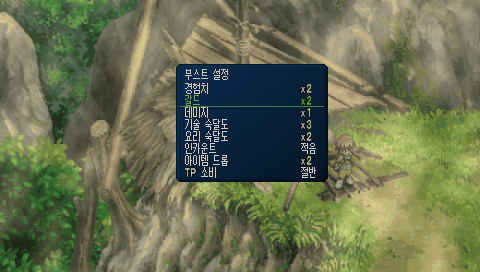
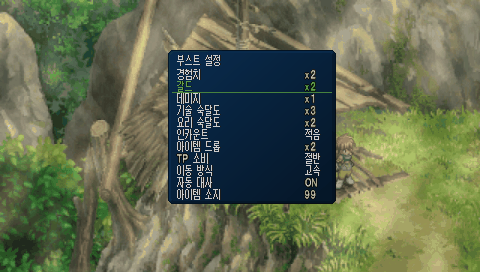
테일즈 오브 이터니아 PSP 편의·부스트 패치 v1.1
- 부스트 메뉴를 월드맵에서도 열기
- 이동 방식(보통/고속), 자동 대사, 아이템 소지(15/99) 항목 추가
- 전투 레벨 매니아 1회차 선택 가능

Claude-Session: https://claude.ai/code/session_01LKgPPUsA2d6ypSLsa3Tj42

Changed region(s): [[0.3438, 0.1765, 0.7188, 0.7647]]

diff --git a/eternia/index.html b/eternia/index.html
@@ -1,8 +1,8 @@
 <!doctype html>
 <html lang="ko" data-gc="snes-korean"><head><meta charset="utf-8">
 <meta name="viewport" content="width=device-width, initial-scale=1">
-<title>테일즈 오브 이터니아 (PSP) 편의·부스트 패치 v1.0 · SNES 한글화</title>
-<meta name="description" content="테일즈 오브 이터니아 PSP 한글판(V1.2)에 2026 리마스터판의 편의 기능(빠른 이동, 대사 빨리 넘기기)과 부스트 기능(경험치·갈드·데미지·숙련도 배율, 인카운트, 드롭률, TP 소비)을 넣는 패치 v1.0">
+<title>테일즈 오브 이터니아 (PSP) 편의·부스트 패치 v1.1 · SNES 한글화</title>
+<meta name="description" content="테일즈 오브 이터니아 PSP 한글판(V1.2)에 2026 리마스터판의 편의 기능(빠른 이동, 대사 빨리 넘기기)과 부스트 기능(경험치·갈드·데미지·숙련도 배율, 인카운트, 드롭률, TP 소비, 이동 방식, 자동 대사, 아이템 소지 수)과 마니아 난이도 1회차 개방을 넣는 패치 v1.1">
 <link rel="preconnect" href="https://fonts.googleapis.com"><link rel="preconnect" href="https://fonts.gstatic.com" crossorigin>
 <link href="https://fonts.googleapis.com/css2?family=Nanum+Myeongjo:wght@400;700;800&family=Noto+Sans+KR:wght@400;500;700&display=swap" rel="stylesheet">
 <link rel="stylesheet" href="../assets/style.css">
@@ -11,30 +11,30 @@
 <div class="bar"><div class="wrap">
  <a class="brand" href="../"><i>韓</i><span>SNES 한글화</span></a><span class="crumb">&nbsp;›&nbsp; <b>테일즈 오브 이터니아</b></span><span class="sp"></span>
  <nav class="menu" aria-label="작품 목록"><button type="button" aria-expanded="false" aria-haspopup="true">작품 목록 ▾</button>
-  <div class="list"><h6>한글화한 작품</h6><a href="../eternia/" aria-current=page>테일즈 오브 이터니아 (PSP·편의/부스트)<small>v1.0 · 2026-11-09</small></a><a href="../rs3/">로맨싱 사가 3 개조판 (치트)<small>v1.3 · 2026-11-03</small></a><a href="../seiken3/">성검전설3 (치트)<small>v1.1 · 2026-11-01</small></a><a href="../ogre/">전설의 오우거 배틀 (치트·공략)<small>v1.4.2 · 2026-11-03</small></a><a href="../chrono/">크로노 트리거+ (CT+)<small>v1.7 · 2026-10-26</small></a><a href="../tenchi-ex/">천지를 먹다 확장판 (삼국지군웅전)<small>v2.7.2 · 2026-10-27</small></a><a href="../tenchi/">천지를 먹다 (삼국지군웅전)<small>v1.3.2 · 2026-10-26</small></a><h6>참여</h6><a class="req" href="../request/">요청·제보<small>한글화 요청 · 버그 제보</small></a></div></nav>
+  <div class="list"><h6>한글화한 작품</h6><a href="../eternia/" aria-current=page>테일즈 오브 이터니아 (PSP·편의/부스트)<small>v1.1 · 2026-11-09</small></a><a href="../rs3/">로맨싱 사가 3 개조판 (치트)<small>v1.3 · 2026-11-03</small></a><a href="../seiken3/">성검전설3 (치트)<small>v1.1 · 2026-11-01</small></a><a href="../ogre/">전설의 오우거 배틀 (치트·공략)<small>v1.4.2 · 2026-11-03</small></a><a href="../chrono/">크로노 트리거+ (CT+)<small>v1.7 · 2026-10-26</small></a><a href="../tenchi-ex/">천지를 먹다 확장판 (삼국지군웅전)<small>v2.7.2 · 2026-10-27</small></a><a href="../tenchi/">천지를 먹다 (삼국지군웅전)<small>v1.3.2 · 2026-10-26</small></a><h6>참여</h6><a class="req" href="../request/">요청·제보<small>한글화 요청 · 버그 제보</small></a></div></nav>
  <span class="visits" hidden title="누적 방문자 (GoatCounter, 최대 4시간 늦게 반영)">누적 방문 <b>-</b></span>
  <a class="pwr" href="https://claude.ai" target="_blank" rel="noopener">Powered by Claude</a>
 </div></div>
 <header class="hero"><div class="wrap">
  <div>
-  <div class="kicker">PSP · v1.0 · 2026-11-09 배포</div>
+  <div class="kicker">PSP · v1.1 · 2026-11-09 배포</div>
   <h1>테일즈 오브 이터니아<small>テイルズ オブ エターニア — 편의·부스트 패치</small></h1>
-  <p class="lead">PSP판 「테일즈 오브 이터니아」 <b>한글판(V1.2)</b>에, 2026년에 나온 <b>리마스터판의 편의 기능과 부스트 기능</b>을 옮겨 넣는 패치입니다. 필드에서 <b>L+R</b>로 부스트 설정 메뉴를 열어 경험치·갈드·데미지·숙련도 배율, 인카운트, 아이템 드롭, TP 소비를 바꿀 수 있습니다. 빠른 이동과 대사 빨리 넘기기도 들어 있습니다.</p>
-  <div class="btns"><a class="btn main" href="patches/ToE_PSP_KR1.2_QoL_Boost_v1.0.xdelta" download>xdelta 패치 받기</a><a class="btn sub" href="#howto">적용 방법</a></div>
+  <p class="lead">PSP판 「테일즈 오브 이터니아」 <b>한글판(V1.2)</b>에, 2026년에 나온 <b>리마스터판의 편의 기능과 부스트 기능</b>을 옮겨 넣는 패치입니다. 필드와 월드맵에서 <b>L+R</b>로 부스트 설정 메뉴를 열어 경험치·갈드·데미지·숙련도 배율, 인카운트, 아이템 드롭, TP 소비, 이동 방식, 자동 대사, 아이템 소지 수를 바꿀 수 있습니다. 빠른 이동, 대사 빨리 넘기기, 1회차 마니아 난이도도 들어 있습니다.</p>
+  <div class="btns"><a class="btn main" href="patches/ToE_PSP_KR1.2_QoL_Boost_v1.1.xdelta" download>xdelta 패치 받기</a><a class="btn sub" href="#howto">적용 방법</a></div>
  </div>
  <figure><img src="img/menu.png" alt="부스트 설정 메뉴 화면" width="480" height="272"><div class="stamp">韓</div></figure>
 </div></header>
 <nav class="toc" aria-label="목차"><div class="wrap"><span>목차</span><a href="#about">게임 소개</a><a href="#qol">편의 기능</a><a href="#boost">부스트 메뉴</a><a href="#shots">화면</a><a href="#howto">적용 방법</a><a href="#known">알려진 문제</a><a href="#log">바뀐 점</a></div></nav>
 <main>
 <section id="about"><div class="wrap two"><div><h2>게임 소개</h2><p>정보 공유가 끊긴 두 세계 인페리아와 셀시아스를 무대로, 사냥꾼 청년 리드가 하늘에서 떨어진 소녀 메르디를 만나며 시작하는 「테일즈」 시리즈 세 번째 작품입니다. 2005년 PSP판이 나왔고, 2026년 10월에는 그 PSP판을 바탕으로 한 리마스터판이 나왔습니다. 이 패치는 리마스터판에서 새로 생긴 기능 가운데 PSP에서 구현할 수 있는 것을 한글판 위에 더합니다. 한글 번역 자체는 기존 한글패치 V1.2 제작진의 작업입니다.</p></div><div><dl class="info"><dt>원작</dt><dd>테일즈 오브 이터니아 (남코, PSP판 2005)</dd><dt>장르</dt><dd>RPG</dd><dt>바탕</dt><dd>일본판 ISO(ULJS-00015) + 한글패치 V1.2</dd><dt>이식 기능</dt><dd>리마스터판(2026) 편의·부스트 기능 일부</dd></dl></div></div></section>
-<section id="qol"><div class="wrap"><h2>편의 기능</h2><table class="dream wide"><tbody><tr><th>필드 빠른 이동</th><td>마을·던전에서 <b>R</b>을 누르고 있으면 이동 속도가 2배가 됩니다. 원래 있는 × 달리기와 같이 누르면 4배입니다. 벽 충돌과 맵 출구는 원래대로 동작합니다.</td></tr><tr><th>월드맵 빠른 이동</th><td>월드맵에서 <b>×</b>를 누르고 있으면 2배로 걷습니다. 월드맵의 L/R은 원래 카메라 회전이라 버튼을 다르게 했습니다.</td></tr><tr><th>대사 빨리 넘기기</th><td>이벤트 중에 <b>R</b>을 누르고 있으면 대사가 자동으로 빠르게 넘어갑니다. 예/아니오 같은 선택지에서는 멈춥니다. 대사만 넘기고 연출과 카메라 이동은 원래 속도입니다.</td></tr></tbody></table></div></section>
-<section id="boost"><div class="wrap"><h2>부스트 메뉴</h2><p>필드(마을·던전)에서 <b>L과 R을 같이 누르면</b> 「부스트 설정」 메뉴가 열립니다. ↑↓로 고르고 ←→로 값을 바꾸며, ×·○·Start·Select나 L+R을 다시 누르면 닫힙니다. 메뉴가 열려 있는 동안 게임은 멈춥니다.</p><table class="dream wide"><tbody><tr><th>경험치</th><td>x0~x5. 전투로 얻는 경험치에 곱합니다. x0은 레벨을 올리지 않는 도전용입니다.</td></tr><tr><th>갈드</th><td>x0~x5. 전투로 얻는 갈드에 곱합니다 (최대 99,999,999).</td></tr><tr><th>데미지</th><td>x1~x5. 리마스터판과 같이 아군과 적 양쪽의 데미지에 모두 적용됩니다 (최대 30,000).</td></tr><tr><th>기술 숙달도</th><td>x1~x5. 술·기를 한 번 쓸 때 올라가는 사용 횟수(숙련도)를 배율만큼 올립니다 (최대 9,999).</td></tr><tr><th>요리 숙달도</th><td>x1~x5. 요리할 때 오르는 요리 숙련도에 곱합니다 (최대 100).</td></tr><tr><th>인카운트</th><td>보통 / 적음 / 없음. 적음은 조우까지 걸리는 거리가 약 2배가 되고, 없음은 일반 몬스터와 마주치지 않습니다. 이벤트 전투는 그대로 일어납니다.</td></tr><tr><th>아이템 드롭</th><td>x1 / x2. 적이 아이템을 떨어뜨릴 확률을 2배로 합니다.</td></tr><tr><th>TP 소비</th><td>보통 / 절반. 술·기에 드는 TP를 절반(올림)으로 줄입니다.</td></tr></tbody></table><p class="note">처음 값은 모두 원래 게임과 같은 값(x1·보통)이라, 메뉴를 건드리지 않으면 원래 게임과 똑같이 동작합니다. 설정은 게임을 켤 때마다 처음 값으로 돌아갑니다(세이브에 저장되지 않음). 메뉴 글자는 게임 안 한글 글꼴을 그대로 써서 「숙련도」 대신 「숙달도」로 적었습니다.</p></div></section>
-<section id="shots"><div class="wrap"><h2>화면</h2><div class="shots"><figure><img src="img/menu.png" alt="부스트 설정 메뉴" width="480" height="272" loading="lazy"><figcaption>부스트 설정 메뉴 (L+R)</figcaption></figure><figure><img src="img/title.png" alt="타이틀 화면 왼쪽 위 버전 표시" width="480" height="272" loading="lazy"><figcaption>타이틀 화면 버전 표시</figcaption></figure><figure><img src="img/world.png" alt="월드맵" width="480" height="272" loading="lazy"><figcaption>월드맵 (× 빠른 이동)</figcaption></figure><figure><img src="img/battle.png" alt="전투 화면" width="480" height="272" loading="lazy"><figcaption>전투 화면</figcaption></figure></div></div></section>
-<section id="howto"><div class="wrap"><h2>적용 방법</h2><ol class="steps"><li><h4>한글판 ISO 준비</h4><p>일본판 ISO(ULJS-00015, 880,607,232바이트, CRC32 <code>4129997D</code>)에 한글패치 V1.2를 먼저 적용합니다. 결과 ISO는 899,168,256바이트, CRC32 <code>46FF65AF</code>여야 합니다.</p></li><li><h4>이 패치 적용</h4><p>한글판 ISO에 <code>ToE_PSP_KR1.2_QoL_Boost_v1.0.xdelta</code>를 xdelta로 적용합니다. PC에서는 Delta Patcher나 xdelta3(<code>xdelta3 -d -s 한글판.iso 패치.xdelta 결과.iso</code>)를 쓰면 됩니다. 결과 ISO CRC32는 <code>762B9705</code>입니다.</p></li><li><h4>실행</h4><p>PPSSPP에서 실행합니다. 게임 목록에 「Tales of Eternia KR1.2 QoL v1.0」으로 나오고, 타이틀 화면 왼쪽 위에 「QoL+Boost v1.0」이 보이면 제대로 적용된 것입니다. 한글판에서 쓰던 세이브를 그대로 이어서 쓸 수 있습니다.</p></li></ol>
- <div class="btns"><a class="btn main" href="patches/ToE_PSP_KR1.2_QoL_Boost_v1.0.xdelta" download>xdelta 받기 (v1.0)</a></div>
+<section id="qol"><div class="wrap"><h2>편의 기능</h2><table class="dream wide"><tbody><tr><th>필드 빠른 이동</th><td>마을·던전에서 <b>R</b>을 누르고 있으면 이동 속도가 2배가 됩니다. 원래 있는 × 달리기와 같이 누르면 4배입니다. 벽 충돌과 맵 출구는 원래대로 동작합니다.</td></tr><tr><th>월드맵 빠른 이동</th><td>월드맵에서 <b>×</b>를 누르고 있으면 2배로 걷습니다. 월드맵의 L/R은 원래 카메라 회전이라 버튼을 다르게 했습니다.</td></tr><tr><th>이동 방식 고정</th><td>부스트 메뉴의 「이동 방식」을 고속으로 두면 버튼을 누르지 않아도 2배로 움직이고, 이때는 R(월드맵은 ×)을 누르면 원래 속도로 걷습니다.</td></tr><tr><th>대사 빨리 넘기기</th><td>이벤트 중에 <b>R</b>을 누르고 있으면 대사가 자동으로 빠르게 넘어갑니다. 예/아니오 같은 선택지에서는 멈춥니다. 대사만 넘기고 연출과 카메라 이동은 원래 속도입니다.</td></tr><tr><th>자동 대사</th><td>부스트 메뉴의 「자동 대사」를 ON으로 두면, 대사가 다 나온 뒤 약 1.5초가 지나면 버튼을 누르지 않아도 다음으로 넘어갑니다. 선택지에서는 멈춥니다.</td></tr><tr><th>마니아 난이도</th><td>원래는 클리어 데이터가 있어야 나오던 전투 레벨 「매니아」를 처음부터 고를 수 있습니다(커스텀 → 전투 레벨).</td></tr></tbody></table></div></section>
+<section id="boost"><div class="wrap"><h2>부스트 메뉴</h2><p>필드(마을·던전)와 월드맵에서 <b>L과 R을 같이 누르면</b> 「부스트 설정」 메뉴가 열립니다. ↑↓로 고르고 ←→로 값을 바꾸며, ×·○·Start·Select나 L+R을 다시 누르면 닫힙니다. 메뉴가 열려 있는 동안 게임은 멈춥니다.</p><table class="dream wide"><tbody><tr><th>경험치</th><td>x0~x5. 전투로 얻는 경험치에 곱합니다. x0은 레벨을 올리지 않는 도전용입니다.</td></tr><tr><th>갈드</th><td>x0~x5. 전투로 얻는 갈드에 곱합니다 (최대 99,999,999).</td></tr><tr><th>데미지</th><td>x1~x5. 리마스터판과 같이 아군과 적 양쪽의 데미지에 모두 적용됩니다 (최대 30,000).</td></tr><tr><th>기술 숙달도</th><td>x1~x5. 술·기를 한 번 쓸 때 올라가는 사용 횟수(숙련도)를 배율만큼 올립니다 (최대 9,999).</td></tr><tr><th>요리 숙달도</th><td>x1~x5. 요리할 때 오르는 요리 숙련도에 곱합니다 (최대 100).</td></tr><tr><th>인카운트</th><td>보통 / 적음 / 없음. 적음은 조우까지 걸리는 거리가 약 2배가 되고, 없음은 일반 몬스터와 마주치지 않습니다. 이벤트 전투는 그대로 일어납니다.</td></tr><tr><th>아이템 드롭</th><td>x1 / x2. 적이 아이템을 떨어뜨릴 확률을 2배로 합니다.</td></tr><tr><th>TP 소비</th><td>보통 / 절반. 술·기에 드는 TP를 절반(올림)으로 줄입니다.</td></tr><tr><th>이동 방식</th><td>보통 / 고속. 고속이면 필드·월드맵을 기본 2배로 이동합니다(위 편의 기능 참고).</td></tr><tr><th>자동 대사</th><td>OFF / ON. 대사 자동 넘김을 켜고 끕니다.</td></tr><tr><th>아이템 소지</th><td>15 / 99. 같은 아이템을 가질 수 있는 최대 개수입니다. 상점 구매 한도도 함께 바뀝니다. 귀중품(1개 한정)은 그대로입니다.</td></tr></tbody></table><p class="note">처음 값은 모두 원래 게임과 같은 값(x1·보통·OFF·15)이라, 메뉴를 건드리지 않으면 원래 게임과 똑같이 동작합니다. 설정은 게임을 켤 때마다 처음 값으로 돌아갑니다(세이브에 저장되지 않음). 메뉴 글자는 게임 안 한글 글꼴을 그대로 써서 「숙련도」 대신 「숙달도」로 적었습니다.</p></div></section>
+<section id="shots"><div class="wrap"><h2>화면</h2><div class="shots"><figure><img src="img/menu.png" alt="부스트 설정 메뉴" width="480" height="272" loading="lazy"><figcaption>부스트 설정 메뉴 (L+R)</figcaption></figure><figure><img src="img/title.png" alt="타이틀 화면 왼쪽 위 버전 표시" width="480" height="272" loading="lazy"><figcaption>타이틀 화면 버전 표시</figcaption></figure><figure><img src="img/world_menu.png" alt="월드맵에서 연 부스트 메뉴" width="480" height="272" loading="lazy"><figcaption>월드맵에서 연 부스트 메뉴</figcaption></figure><figure><img src="img/mania.png" alt="커스텀 전투 레벨에 매니아 표시" width="480" height="272" loading="lazy"><figcaption>1회차 매니아 선택</figcaption></figure></div></div></section>
+<section id="howto"><div class="wrap"><h2>적용 방법</h2><ol class="steps"><li><h4>한글판 ISO 준비</h4><p>일본판 ISO(ULJS-00015, 880,607,232바이트, CRC32 <code>4129997D</code>)에 한글패치 V1.2를 먼저 적용합니다. 결과 ISO는 899,168,256바이트, CRC32 <code>46FF65AF</code>여야 합니다.</p></li><li><h4>이 패치 적용</h4><p>한글판 ISO에 <code>ToE_PSP_KR1.2_QoL_Boost_v1.1.xdelta</code>를 xdelta로 적용합니다. PC에서는 Delta Patcher나 xdelta3(<code>xdelta3 -d -s 한글판.iso 패치.xdelta 결과.iso</code>)를 쓰면 됩니다. 결과 ISO CRC32는 <code>05718FD2</code>입니다.</p></li><li><h4>실행</h4><p>PPSSPP에서 실행합니다. 게임 목록에 「Tales of Eternia KR1.2 QoL v1.1」로 나오고, 타이틀 화면 왼쪽 위에 「QoL+Boost v1.1」이 보이면 제대로 적용된 것입니다. 한글판에서 쓰던 세이브를 그대로 이어서 쓸 수 있습니다.</p></li></ol>
+ <div class="btns"><a class="btn main" href="patches/ToE_PSP_KR1.2_QoL_Boost_v1.1.xdelta" download>xdelta 받기 (v1.1)</a><a class="btn sub" href="patches/ToE_PSP_KR1.2_QoL_Boost_v1.0.xdelta" download>이전 버전 (v1.0)</a></div>
  <p class="note">이 xdelta는 한글패치 V1.2를 적용한 ISO용입니다. 일본판 원본 ISO에 바로 적용하면 맞지 않습니다.</p></div></section>
-<section id="known"><div class="wrap"><h2>알려진 문제</h2><ul><li>부스트 메뉴는 필드(마을·던전)에서만 열립니다. 월드맵과 전투 중에는 L+R을 눌러도 열리지 않으니 가까운 마을에서 바꿔 주세요.</li><li>전투 결과 화면에 보이는 경험치·갈드 숫자는 배율을 곱하기 전 값입니다. 실제로는 배율만큼 들어갑니다.</li><li>리마스터판 기능 가운데 목적지 아이콘, 자동 저장, 전투 재도전, 메뉴 퀵 회복, 2회차 항목별 인계, 그래픽·음성 전환은 넣지 않았습니다.</li><li>PPSSPP에서만 시험했습니다. 실기(커스텀 펌웨어 PSP)와 후반 지역·보스전은 끝까지 확인하지 못했습니다. 이상한 점이 있으면 제보해 주세요.</li></ul><p class="bugrep"><a href="../request/">버그 제보하기 →</a></p></div></section>
-<section id="log"><div class="wrap"><h2>바뀐 점</h2><div class="chg"><b>v1.0</b> <span class="date">2026-11-09</span><ul><li>부스트 설정 메뉴 추가 (필드에서 L+R): 경험치·갈드 x0~x5, 데미지·기술/요리 숙달도 x1~x5, 인카운트 보통/적음/없음, 아이템 드롭 x1/x2, TP 소비 보통/절반</li><li>필드 R 빠른 이동, 월드맵 × 빠른 이동, 이벤트 R 대사 빨리 넘기기</li><li>타이틀 화면과 게임 목록 이름에 버전 표시</li></ul></div></div></section>
+<section id="known"><div class="wrap"><h2>알려진 문제</h2><ul><li>부스트 메뉴는 필드와 월드맵에서 열립니다. 전투 중이나 캠프 메뉴 안에서는 열리지 않습니다.</li><li>아이템 소지를 99로 쓰다가 15로 되돌리면, 15개를 넘게 가진 아이템은 다음에 같은 아이템을 얻을 때 15개로 줄어듭니다.</li><li>아이템 소지 99의 상점 구매 한도는 코드만 바꾸고 실제 상점에서는 시험하지 못했습니다.</li><li>전투 결과 화면에 보이는 경험치·갈드 숫자는 배율을 곱하기 전 값입니다. 실제로는 배율만큼 들어갑니다.</li><li>리마스터판 기능 가운데 목적지 아이콘, 자동 저장, 전투 재도전, 메뉴 퀵 회복, 이벤트 통째 스킵, 2회차 항목별 인계, 네레이드의 미궁 조기 개방, 그래픽·음성 전환은 넣지 않았습니다.</li><li>PPSSPP에서만 시험했습니다. 실기(커스텀 펌웨어 PSP)와 후반 지역·보스전은 끝까지 확인하지 못했습니다. 이상한 점이 있으면 제보해 주세요.</li></ul><p class="bugrep"><a href="../request/">버그 제보하기 →</a></p></div></section>
+<section id="log"><div class="wrap"><h2>바뀐 점</h2><div class="chg"><b>v1.1</b> <span class="date">2026-11-09</span><ul><li>부스트 메뉴를 월드맵에서도 열 수 있게 함 (메뉴가 열려 있는 동안 이동 정지)</li><li>부스트 항목 추가: 이동 방식(보통/고속), 자동 대사(OFF/ON), 아이템 소지(15/99)</li><li>전투 레벨 「매니아」를 1회차부터 선택 가능</li></ul></div><div class="chg"><b>v1.0</b> <span class="date">2026-11-09</span><ul><li>부스트 설정 메뉴 추가 (필드에서 L+R): 경험치·갈드 x0~x5, 데미지·기술/요리 숙달도 x1~x5, 인카운트 보통/적음/없음, 아이템 드롭 x1/x2, TP 소비 보통/절반</li><li>필드 R 빠른 이동, 월드맵 × 빠른 이동, 이벤트 R 대사 빨리 넘기기</li><li>타이틀 화면과 게임 목록 이름에 버전 표시</li></ul></div></div></section>
 <section><div class="wrap"><p class="note">어셈블러: armips. 분석·검수: PPSSPP.</p></div></section>
 </main>
 <div class="support"><div class="wrap"><div class="sbox"><p><b>이 패치가 도움이 되셨나요?</b> 후원해 주시면 다음 작품 작업과 버그 수정을 이어 가는 데 쓰겠습니다.<br><small>이 페이지의 후원은 편의·부스트 패치 제작에 대한 것입니다. 한글 번역은 기존 한글패치 제작진의 작업입니다.</small></p><a class="btn sub" href="https://buymeacoffee.com/sneskorean" target="_blank" rel="noopener">☕ 후원하기</a></div></div></div>

diff --git a/index.html b/index.html
@@ -11,7 +11,7 @@
 <div class="bar"><div class="wrap">
  <a class="brand" href=""><i>韓</i><span>SNES 한글화</span></a><span class="sp"></span>
  <nav class="menu" aria-label="작품 목록"><button type="button" aria-expanded="false" aria-haspopup="true">작품 목록 ▾</button>
-  <div class="list"><h6>한글화한 작품</h6><a href="eternia/">테일즈 오브 이터니아 (PSP·편의/부스트)<small>v1.0 · 2026-11-09</small></a><a href="rs3/">로맨싱 사가 3 개조판 (치트)<small>v1.3 · 2026-11-03</small></a><a href="seiken3/">성검전설3 (치트)<small>v1.1 · 2026-11-01</small></a><a href="ogre/">전설의 오우거 배틀 (치트·공략)<small>v1.4.2 · 2026-11-03</small></a><a href="chrono/">크로노 트리거+ (CT+)<small>v1.7 · 2026-10-26</small></a><a href="tenchi-ex/">천지를 먹다 확장판 (삼국지군웅전)<small>v2.7.2 · 2026-10-27</small></a><a href="tenchi/">천지를 먹다 (삼국지군웅전)<small>v1.3.2 · 2026-10-26</small></a><h6>참여</h6><a class="req" href="request/">요청·제보<small>한글화 요청 · 버그 제보</small></a></div></nav>
+  <div class="list"><h6>한글화한 작품</h6><a href="eternia/">테일즈 오브 이터니아 (PSP·편의/부스트)<small>v1.1 · 2026-11-09</small></a><a href="rs3/">로맨싱 사가 3 개조판 (치트)<small>v1.3 · 2026-11-03</small></a><a href="seiken3/">성검전설3 (치트)<small>v1.1 · 2026-11-01</small></a><a href="ogre/">전설의 오우거 배틀 (치트·공략)<small>v1.4.2 · 2026-11-03</small></a><a href="chrono/">크로노 트리거+ (CT+)<small>v1.7 · 2026-10-26</small></a><a href="tenchi-ex/">천지를 먹다 확장판 (삼국지군웅전)<small>v2.7.2 · 2026-10-27</small></a><a href="tenchi/">천지를 먹다 (삼국지군웅전)<small>v1.3.2 · 2026-10-26</small></a><h6>참여</h6><a class="req" href="request/">요청·제보<small>한글화 요청 · 버그 제보</small></a></div></nav>
  <span class="visits" hidden title="누적 방문자 (GoatCounter, 최대 4시간 늦게 반영)">누적 방문 <b>-</b></span>
  <a class="pwr" href="https://claude.ai" target="_blank" rel="noopener">Powered by Claude</a>
 </div></div>
@@ -21,7 +21,7 @@
 </div></header>
 <main>
 <section><div class="wrap"><h2>한글화한 작품</h2><div class="games"><a class="game" href="eternia/"><img src="eternia/img/menu.png" alt="테일즈 오브 이터니아 부스트 설정 메뉴" width="480" height="272">
- <div><span class="v">v1.0</span><span class="d">2026-11-09 배포</span><h3>테일즈 오브 이터니아 <small>(PSP·편의/부스트)</small></h3><p>남코 2005 · RPG. PSP 한글판(V1.2)에 2026 리마스터판의 편의·부스트 기능 이식 — 경험치·갈드·데미지·숙련도 배율, 인카운트, 드롭률, TP 소비, 빠른 이동, 대사 빨리 넘기기</p></div></a><a class="game" href="rs3/"><img src="rs3/img/menu.png" alt="로맨싱 사가 3 개조판 치트 메뉴" width="256" height="224">
+ <div><span class="v">v1.1</span><span class="d">2026-11-09 배포</span><h3>테일즈 오브 이터니아 <small>(PSP·편의/부스트)</small></h3><p>남코 2005 · RPG. PSP 한글판(V1.2)에 2026 리마스터판의 편의·부스트 기능 이식 — 경험치·갈드·데미지·숙련도 배율, 인카운트, 드롭률, TP 소비, 이동 방식·자동 대사·아이템 소지 수, 1회차 매니아, 빠른 이동</p></div></a><a class="game" href="rs3/"><img src="rs3/img/menu.png" alt="로맨싱 사가 3 개조판 치트 메뉴" width="256" height="224">
  <div><span class="v">v1.3</span><span class="d">2026-11-03 배포</span><h3>로맨싱 사가 3 개조판 <small>(치트)</small></h3><p>스퀘어 1995 · RPG. 개조판 「ぼくのロマサガ3」 한국어판에 치트 메뉴 추가(게임 메뉴 「치트」 항목) — 오럼·성장·번뜩임 1~5배, HP·WP·JP·LP 유지, 이동속도 4배, 조우 회피</p></div></a><a class="game" href="seiken3/"><img src="seiken3/img/menu.png" alt="성검전설3 치트 메뉴" width="256" height="224">
  <div><span class="v">v1.1</span><span class="d">2026-11-01 배포</span><h3>성검전설3 <small>(치트)</small></h3><p>스퀘어 1995 · 액션 RPG. 2017년 한글판에 치트 메뉴 추가 — 루크·경험치 1~5배, HP·MP 유지, 이동속도 2배</p></div></a><a class="game" href="ogre/"><img src="ogre/img/guide.png" alt="전설의 오우거 배틀 공략 화면" width="256" height="224">
  <div><span class="v">v1.4.2</span><span class="d">2026-11-03 배포</span><h3>전설의 오우거 배틀 <small>(치트·공략)</small></h3><p>퀘스트 1993 · 시뮬레이션 RPG. 한마루 한글판에 치트 메뉴와 스테이지별 공략·지도 번호 표시 추가</p></div></a><a class="game" href="chrono/"><img src="chrono/img/battle_tech.png" alt="크로노 트리거+ (CT+) 타이틀 화면" width="256" height="224">

diff --git a/tenchi-ex/index.html b/tenchi-ex/index.html
@@ -11,7 +11,7 @@
 <div class="bar"><div class="wrap">
  <a class="brand" href="../"><i>韓</i><span>SNES 한글화</span></a><span class="crumb">&nbsp;›&nbsp; <b>천지를 먹다 확장판 (삼국지군웅전)</b></span><span class="sp"></span>
  <nav class="menu" aria-label="작품 목록"><button type="button" aria-expanded="false" aria-haspopup="true">작품 목록 ▾</button>
-  <div class="list"><h6>한글화한 작품</h6><a href="../eternia/">테일즈 오브 이터니아 (PSP·편의/부스트)<small>v1.0 · 2026-11-09</small></a><a href="../rs3/">로맨싱 사가 3 개조판 (치트)<small>v1.3 · 2026-11-03</small></a><a href="../seiken3/">성검전설3 (치트)<small>v1.1 · 2026-11-01</small></a><a href="../ogre/">전설의 오우거 배틀 (치트·공략)<small>v1.4.2 · 2026-11-03</small></a><a href="../chrono/">크로노 트리거+ (CT+)<small>v1.7 · 2026-10-26</small></a><a href="../tenchi-ex/" aria-current=page>천지를 먹다 확장판 (삼국지군웅전)<small>v2.7.2 · 2026-10-27</small></a><a href="../tenchi/">천지를 먹다 (삼국지군웅전)<small>v1.3.2 · 2026-10-26</small></a><h6>참여</h6><a class="req" href="../request/">요청·제보<small>한글화 요청 · 버그 제보</small></a></div></nav>
+  <div class="list"><h6>한글화한 작품</h6><a href="../eternia/">테일즈 오브 이터니아 (PSP·편의/부스트)<small>v1.1 · 2026-11-09</small></a><a href="../rs3/">로맨싱 사가 3 개조판 (치트)<small>v1.3 · 2026-11-03</small></a><a href="../seiken3/">성검전설3 (치트)<small>v1.1 · 2026-11-01</small></a><a href="../ogre/">전설의 오우거 배틀 (치트·공략)<small>v1.4.2 · 2026-11-03</small></a><a href="../chrono/">크로노 트리거+ (CT+)<small>v1.7 · 2026-10-26</small></a><a href="../tenchi-ex/" aria-current=page>천지를 먹다 확장판 (삼국지군웅전)<small>v2.7.2 · 2026-10-27</small></a><a href="../tenchi/">천지를 먹다 (삼국지군웅전)<small>v1.3.2 · 2026-10-26</small></a><h6>참여</h6><a class="req" href="../request/">요청·제보<small>한글화 요청 · 버그 제보</small></a></div></nav>
  <span class="visits" hidden title="누적 방문자 (GoatCounter, 최대 4시간 늦게 반영)">누적 방문 <b>-</b></span>
  <a class="pwr" href="https://claude.ai" target="_blank" rel="noopener">Powered by Claude</a>
 </div></div>

diff --git a/tenchi/index.html b/tenchi/index.html
@@ -11,7 +11,7 @@
 <div class="bar"><div class="wrap">
  <a class="brand" href="../"><i>韓</i><span>SNES 한글화</span></a><span class="crumb">&nbsp;›&nbsp; <b>천지를 먹다 (삼국지군웅전)</b></span><span class="sp"></span>
  <nav class="menu" aria-label="작품 목록"><button type="button" aria-expanded="false" aria-haspopup="true">작품 목록 ▾</button>
-  <div class="list"><h6>한글화한 작품</h6><a href="../eternia/">테일즈 오브 이터니아 (PSP·편의/부스트)<small>v1.0 · 2026-11-09</small></a><a href="../rs3/">로맨싱 사가 3 개조판 (치트)<small>v1.3 · 2026-11-03</small></a><a href="../seiken3/">성검전설3 (치트)<small>v1.1 · 2026-11-01</small></a><a href="../ogre/">전설의 오우거 배틀 (치트·공략)<small>v1.4.2 · 2026-11-03</small></a><a href="../chrono/">크로노 트리거+ (CT+)<small>v1.7 · 2026-10-26</small></a><a href="../tenchi-ex/">천지를 먹다 확장판 (삼국지군웅전)<small>v2.7.2 · 2026-10-27</small></a><a href="../tenchi/" aria-current=page>천지를 먹다 (삼국지군웅전)<small>v1.3.2 · 2026-10-26</small></a><h6>참여</h6><a class="req" href="../request/">요청·제보<small>한글화 요청 · 버그 제보</small></a></div></nav>
+  <div class="list"><h6>한글화한 작품</h6><a href="../eternia/">테일즈 오브 이터니아 (PSP·편의/부스트)<small>v1.1 · 2026-11-09</small></a><a href="../rs3/">로맨싱 사가 3 개조판 (치트)<small>v1.3 · 2026-11-03</small></a><a href="../seiken3/">성검전설3 (치트)<small>v1.1 · 2026-11-01</small></a><a href="../ogre/">전설의 오우거 배틀 (치트·공략)<small>v1.4.2 · 2026-11-03</small></a><a href="../chrono/">크로노 트리거+ (CT+)<small>v1.7 · 2026-10-26</small></a><a href="../tenchi-ex/">천지를 먹다 확장판 (삼국지군웅전)<small>v2.7.2 · 2026-10-27</small></a><a href="../tenchi/" aria-current=page>천지를 먹다 (삼국지군웅전)<small>v1.3.2 · 2026-10-26</small></a><h6>참여</h6><a class="req" href="../request/">요청·제보<small>한글화 요청 · 버그 제보</small></a></div></nav>
  <span class="visits" hidden title="누적 방문자 (GoatCounter, 최대 4시간 늦게 반영)">누적 방문 <b>-</b></span>
  <a class="pwr" href="https://claude.ai" target="_blank" rel="noopener">Powered by Claude</a>
 </div></div>

diff --git a/chrono/index.html b/chrono/index.html
@@ -11,7 +11,7 @@
 <div class="bar"><div class="wrap">
  <a class="brand" href="../"><i>韓</i><span>SNES 한글화</span></a><span class="crumb">&nbsp;›&nbsp; <b>크로노 트리거+ (CT+)</b></span><span class="sp"></span>
  <nav class="menu" aria-label="작품 목록"><button type="button" aria-expanded="false" aria-haspopup="true">작품 목록 ▾</button>
-  <div class="list"><h6>한글화한 작품</h6><a href="../eternia/">테일즈 오브 이터니아 (PSP·편의/부스트)<small>v1.0 · 2026-11-09</small></a><a href="../rs3/">로맨싱 사가 3 개조판 (치트)<small>v1.3 · 2026-11-03</small></a><a href="../seiken3/">성검전설3 (치트)<small>v1.1 · 2026-11-01</small></a><a href="../ogre/">전설의 오우거 배틀 (치트·공략)<small>v1.4.2 · 2026-11-03</small></a><a href="../chrono/" aria-current=page>크로노 트리거+ (CT+)<small>v1.7 · 2026-10-26</small></a><a href="../tenchi-ex/">천지를 먹다 확장판 (삼국지군웅전)<small>v2.7.2 · 2026-10-27</small></a><a href="../tenchi/">천지를 먹다 (삼국지군웅전)<small>v1.3.2 · 2026-10-26</small></a><h6>참여</h6><a class="req" href="../request/">요청·제보<small>한글화 요청 · 버그 제보</small></a></div></nav>
+  <div class="list"><h6>한글화한 작품</h6><a href="../eternia/">테일즈 오브 이터니아 (PSP·편의/부스트)<small>v1.1 · 2026-11-09</small></a><a href="../rs3/">로맨싱 사가 3 개조판 (치트)<small>v1.3 · 2026-11-03</small></a><a href="../seiken3/">성검전설3 (치트)<small>v1.1 · 2026-11-01</small></a><a href="../ogre/">전설의 오우거 배틀 (치트·공략)<small>v1.4.2 · 2026-11-03</small></a><a href="../chrono/" aria-current=page>크로노 트리거+ (CT+)<small>v1.7 · 2026-10-26</small></a><a href="../tenchi-ex/">천지를 먹다 확장판 (삼국지군웅전)<small>v2.7.2 · 2026-10-27</small></a><a href="../tenchi/">천지를 먹다 (삼국지군웅전)<small>v1.3.2 · 2026-10-26</small></a><h6>참여</h6><a class="req" href="../request/">요청·제보<small>한글화 요청 · 버그 제보</small></a></div></nav>
  <span class="visits" hidden title="누적 방문자 (GoatCounter, 최대 4시간 늦게 반영)">누적 방문 <b>-</b></span>
  <a class="pwr" href="https://claude.ai" target="_blank" rel="noopener">Powered by Claude</a>
 </div></div>

diff --git a/ogre/index.html b/ogre/index.html
@@ -11,7 +11,7 @@
 <div class="bar"><div class="wrap">
  <a class="brand" href="../"><i>韓</i><span>SNES 한글화</span></a><span class="crumb">&nbsp;›&nbsp; <b>전설의 오우거 배틀</b></span><span class="sp"></span>
  <nav class="menu" aria-label="작품 목록"><button type="button" aria-expanded="false" aria-haspopup="true">작품 목록 ▾</button>
-  <div class="list"><h6>한글화한 작품</h6><a href="../eternia/">테일즈 오브 이터니아 (PSP·편의/부스트)<small>v1.0 · 2026-11-09</small></a><a href="../rs3/">로맨싱 사가 3 개조판 (치트)<small>v1.3 · 2026-11-03</small></a><a href="../seiken3/">성검전설3 (치트)<small>v1.1 · 2026-11-01</small></a><a href="../ogre/" aria-current=page>전설의 오우거 배틀 (치트·공략)<small>v1.4.2 · 2026-11-03</small></a><a href="../chrono/">크로노 트리거+ (CT+)<small>v1.7 · 2026-10-26</small></a><a href="../tenchi-ex/">천지를 먹다 확장판 (삼국지군웅전)<small>v2.7.2 · 2026-10-27</small></a><a href="../tenchi/">천지를 먹다 (삼국지군웅전)<small>v1.3.2 · 2026-10-26</small></a><h6>참여</h6><a class="req" href="../request/">요청·제보<small>한글화 요청 · 버그 제보</small></a></div></nav>
+  <div class="list"><h6>한글화한 작품</h6><a href="../eternia/">테일즈 오브 이터니아 (PSP·편의/부스트)<small>v1.1 · 2026-11-09</small></a><a href="../rs3/">로맨싱 사가 3 개조판 (치트)<small>v1.3 · 2026-11-03</small></a><a href="../seiken3/">성검전설3 (치트)<small>v1.1 · 2026-11-01</small></a><a href="../ogre/" aria-current=page>전설의 오우거 배틀 (치트·공략)<small>v1.4.2 · 2026-11-03</small></a><a href="../chrono/">크로노 트리거+ (CT+)<small>v1.7 · 2026-10-26</small></a><a href="../tenchi-ex/">천지를 먹다 확장판 (삼국지군웅전)<small>v2.7.2 · 2026-10-27</small></a><a href="../tenchi/">천지를 먹다 (삼국지군웅전)<small>v1.3.2 · 2026-10-26</small></a><h6>참여</h6><a class="req" href="../request/">요청·제보<small>한글화 요청 · 버그 제보</small></a></div></nav>
  <span class="visits" hidden title="누적 방문자 (GoatCounter, 최대 4시간 늦게 반영)">누적 방문 <b>-</b></span>
  <a class="pwr" href="https://claude.ai" target="_blank" rel="noopener">Powered by Claude</a>
 </div></div>

diff --git a/rs3/index.html b/rs3/index.html
@@ -11,7 +11,7 @@
 <div class="bar"><div class="wrap">
  <a class="brand" href="../"><i>韓</i><span>SNES 한글화</span></a><span class="crumb">&nbsp;›&nbsp; <b>로맨싱 사가 3</b></span><span class="sp"></span>
  <nav class="menu" aria-label="작품 목록"><button type="button" aria-expanded="false" aria-haspopup="true">작품 목록 ▾</button>
-  <div class="list"><h6>한글화한 작품</h6><a href="../eternia/">테일즈 오브 이터니아 (PSP·편의/부스트)<small>v1.0 · 2026-11-09</small></a><a href="../rs3/" aria-current=page>로맨싱 사가 3 개조판 (치트)<small>v1.3 · 2026-11-03</small></a><a href="../seiken3/">성검전설3 (치트)<small>v1.1 · 2026-11-01</small></a><a href="../ogre/">전설의 오우거 배틀 (치트·공략)<small>v1.4.2 · 2026-11-03</small></a><a href="../chrono/">크로노 트리거+ (CT+)<small>v1.7 · 2026-10-26</small></a><a href="../tenchi-ex/">천지를 먹다 확장판 (삼국지군웅전)<small>v2.7.2 · 2026-10-27</small></a><a href="../tenchi/">천지를 먹다 (삼국지군웅전)<small>v1.3.2 · 2026-10-26</small></a><h6>참여</h6><a class="req" href="../request/">요청·제보<small>한글화 요청 · 버그 제보</small></a></div></nav>
+  <div class="list"><h6>한글화한 작품</h6><a href="../eternia/">테일즈 오브 이터니아 (PSP·편의/부스트)<small>v1.1 · 2026-11-09</small></a><a href="../rs3/" aria-current=page>로맨싱 사가 3 개조판 (치트)<small>v1.3 · 2026-11-03</small></a><a href="../seiken3/">성검전설3 (치트)<small>v1.1 · 2026-11-01</small></a><a href="../ogre/">전설의 오우거 배틀 (치트·공략)<small>v1.4.2 · 2026-11-03</small></a><a href="../chrono/">크로노 트리거+ (CT+)<small>v1.7 · 2026-10-26</small></a><a href="../tenchi-ex/">천지를 먹다 확장판 (삼국지군웅전)<small>v2.7.2 · 2026-10-27</small></a><a href="../tenchi/">천지를 먹다 (삼국지군웅전)<small>v1.3.2 · 2026-10-26</small></a><h6>참여</h6><a class="req" href="../request/">요청·제보<small>한글화 요청 · 버그 제보</small></a></div></nav>
  <span class="visits" hidden title="누적 방문자 (GoatCounter, 최대 4시간 늦게 반영)">누적 방문 <b>-</b></span>
  <a class="pwr" href="https://claude.ai" target="_blank" rel="noopener">Powered by Claude</a>
 </div></div>

diff --git a/request/index.html b/request/index.html
@@ -11,7 +11,7 @@
 <div class="bar"><div class="wrap">
  <a class="brand" href="../"><i>韓</i><span>SNES 한글화</span></a><span class="crumb">&nbsp;›&nbsp; <b>요청·제보</b></span><span class="sp"></span>
  <nav class="menu" aria-label="작품 목록"><button type="button" aria-expanded="false" aria-haspopup="true">작품 목록 ▾</button>
-  <div class="list"><h6>한글화한 작품</h6><a href="../eternia/">테일즈 오브 이터니아 (PSP·편의/부스트)<small>v1.0 · 2026-11-09</small></a><a href="../rs3/">로맨싱 사가 3 개조판 (치트)<small>v1.3 · 2026-11-03</small></a><a href="../seiken3/">성검전설3 (치트)<small>v1.1 · 2026-11-01</small></a><a href="../ogre/">전설의 오우거 배틀 (치트·공략)<small>v1.4.2 · 2026-11-03</small></a><a href="../chrono/">크로노 트리거+ (CT+)<small>v1.7 · 2026-10-26</small></a><a href="../tenchi-ex/">천지를 먹다 확장판 (삼국지군웅전)<small>v2.7.2 · 2026-10-27</small></a><a href="../tenchi/">천지를 먹다 (삼국지군웅전)<small>v1.3.2 · 2026-10-26</small></a><h6>참여</h6><a class="req" href="../request/" aria-current=page>요청·제보<small>한글화 요청 · 버그 제보</small></a></div></nav>
+  <div class="list"><h6>한글화한 작품</h6><a href="../eternia/">테일즈 오브 이터니아 (PSP·편의/부스트)<small>v1.1 · 2026-11-09</small></a><a href="../rs3/">로맨싱 사가 3 개조판 (치트)<small>v1.3 · 2026-11-03</small></a><a href="../seiken3/">성검전설3 (치트)<small>v1.1 · 2026-11-01</small></a><a href="../ogre/">전설의 오우거 배틀 (치트·공략)<small>v1.4.2 · 2026-11-03</small></a><a href="../chrono/">크로노 트리거+ (CT+)<small>v1.7 · 2026-10-26</small></a><a href="../tenchi-ex/">천지를 먹다 확장판 (삼국지군웅전)<small>v2.7.2 · 2026-10-27</small></a><a href="../tenchi/">천지를 먹다 (삼국지군웅전)<small>v1.3.2 · 2026-10-26</small></a><h6>참여</h6><a class="req" href="../request/" aria-current=page>요청·제보<small>한글화 요청 · 버그 제보</small></a></div></nav>
  <span class="visits" hidden title="누적 방문자 (GoatCounter, 최대 4시간 늦게 반영)">누적 방문 <b>-</b></span>
  <a class="pwr" href="https://claude.ai" target="_blank" rel="noopener">Powered by Claude</a>
 </div></div>

diff --git a/seiken3/index.html b/seiken3/index.html
@@ -11,7 +11,7 @@
 <div class="bar"><div class="wrap">
  <a class="brand" href="../"><i>韓</i><span>SNES 한글화</span></a><span class="crumb">&nbsp;›&nbsp; <b>성검전설3</b></span><span class="sp"></span>
  <nav class="menu" aria-label="작품 목록"><button type="button" aria-expanded="false" aria-haspopup="true">작품 목록 ▾</button>
-  <div class="list"><h6>한글화한 작품</h6><a href="../eternia/">테일즈 오브 이터니아 (PSP·편의/부스트)<small>v1.0 · 2026-11-09</small></a><a href="../rs3/">로맨싱 사가 3 개조판 (치트)<small>v1.3 · 2026-11-03</small></a><a href="../seiken3/" aria-current=page>성검전설3 (치트)<small>v1.1 · 2026-11-01</small></a><a href="../ogre/">전설의 오우거 배틀 (치트·공략)<small>v1.4.2 · 2026-11-03</small></a><a href="../chrono/">크로노 트리거+ (CT+)<small>v1.7 · 2026-10-26</small></a><a href="../tenchi-ex/">천지를 먹다 확장판 (삼국지군웅전)<small>v2.7.2 · 2026-10-27</small></a><a href="../tenchi/">천지를 먹다 (삼국지군웅전)<small>v1.3.2 · 2026-10-26</small></a><h6>참여</h6><a class="req" href="../request/">요청·제보<small>한글화 요청 · 버그 제보</small></a></div></nav>
+  <div class="list"><h6>한글화한 작품</h6><a href="../eternia/">테일즈 오브 이터니아 (PSP·편의/부스트)<small>v1.1 · 2026-11-09</small></a><a href="../rs3/">로맨싱 사가 3 개조판 (치트)<small>v1.3 · 2026-11-03</small></a><a href="../seiken3/" aria-current=page>성검전설3 (치트)<small>v1.1 · 2026-11-01</small></a><a href="../ogre/">전설의 오우거 배틀 (치트·공략)<small>v1.4.2 · 2026-11-03</small></a><a href="../chrono/">크로노 트리거+ (CT+)<small>v1.7 · 2026-10-26</small></a><a href="../tenchi-ex/">천지를 먹다 확장판 (삼국지군웅전)<small>v2.7.2 · 2026-10-27</small></a><a href="../tenchi/">천지를 먹다 (삼국지군웅전)<small>v1.3.2 · 2026-10-26</small></a><h6>참여</h6><a class="req" href="../request/">요청·제보<small>한글화 요청 · 버그 제보</small></a></div></nav>
  <span class="visits" hidden title="누적 방문자 (GoatCounter, 최대 4시간 늦게 반영)">누적 방문 <b>-</b></span>
  <a class="pwr" href="https://claude.ai" target="_blank" rel="noopener">Powered by Claude</a>
 </div></div>

diff --git a/README.md b/README.md
@@ -3,7 +3,7 @@ SNES 고전게임 한글화 프로젝트
 
 | 작품 | 최신 버전 | 배포일 | 페이지 |
 |---|---|---|---|
-| 테일즈 오브 이터니아 PSP (편의·부스트, xdelta) | v1.0 | 2026-11-09 | `eternia/` |
+| 테일즈 오브 이터니아 PSP (편의·부스트, xdelta) | v1.1 | 2026-11-09 | `eternia/` |
 | 로맨싱 사가 3 개조판 (치트) | v1.2 | 2026-11-02 | `rs3/` |
 | 성검전설3 (치트) | v1.1 | 2026-11-01 | `seiken3/` |
 | 전설의 오우거 배틀 (치트·공략) | v1.4.1 | 2026-11-02 | `ogre/` |
